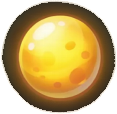
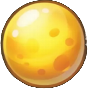
Aviator v2: re-export planet-a/b/c sprites (updated in Figma) and match new aspect ratios

diff --git a/src/app/demos/aviator-v2/page.tsx b/src/app/demos/aviator-v2/page.tsx
@@ -282,9 +282,9 @@ type FlybyDef = { src: string; w: number; h: number };
 const FLYBY_OBJECTS: FlybyDef[] = [
   { src: 'ringed-planet', w: 130, h: Math.round(130 * (292 / 447)) },
   { src: 'striped-planet', w: 110, h: Math.round(110 * (233 / 223)) },
-  { src: 'planet-a', w: 70, h: Math.round(70 * (157 / 162)) },
-  { src: 'planet-b', w: 60, h: Math.round(60 * (127 / 131)) },
-  { src: 'planet-c', w: 55, h: Math.round(55 * (114 / 117)) },
+  { src: 'planet-a', w: 70, h: Math.round(70 * (116 / 115)) },
+  { src: 'planet-b', w: 60, h: Math.round(60 * (100 / 101)) },
+  { src: 'planet-c', w: 55, h: Math.round(55 * (89 / 88)) },
   { src: 'rock-a', w: 34, h: Math.round(34 * (64 / 65)) },
   { src: 'rock-6', w: 30, h: Math.round(30 * (40 / 60)) },
   { src: 'star', w: 16, h: 16 },
